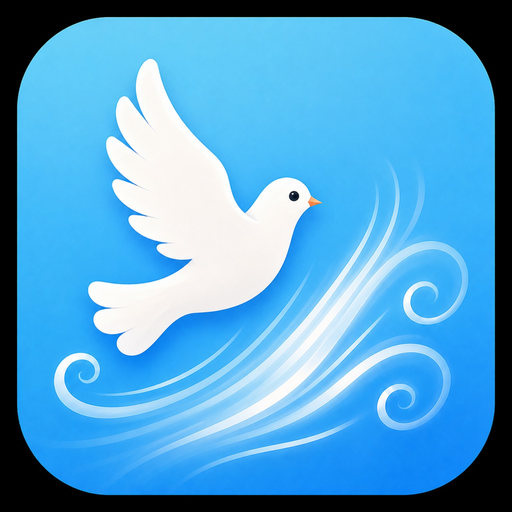
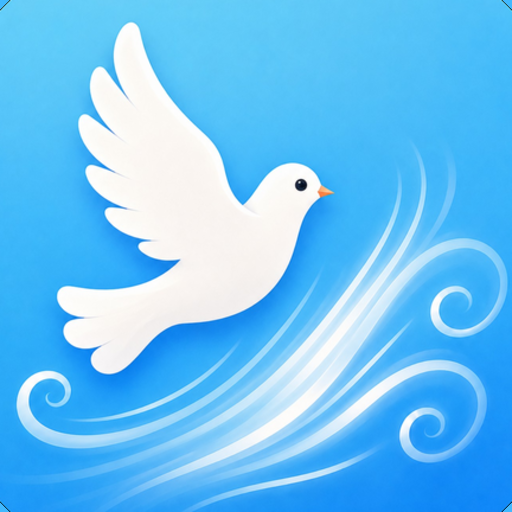
Add files via upload

diff --git a/index.html b/index.html
@@ -11,16 +11,15 @@
   <meta name="apple-mobile-web-app-title" content="Aufwind">
   <meta name="description" content="Aufwind – Good News aus aller Welt. Positive Nachrichten kompakt, transparent und nachvollziehbar.">
   <title>Aufwind – Good News aus aller Welt</title>
-  <link rel="manifest" href="manifest.json">
-  <link rel="icon" type="image/png" sizes="32x32" href="favicon-32.png">
-  <link rel="apple-touch-icon" sizes="180x180" href="apple-touch-icon.png">
-  <link rel="stylesheet" href="style.css?v=83">
+  <link rel="manifest" href="manifest.json?v=68">
+  <link rel="icon" type="image/png" sizes="32x32" href="aufwind-favicon-32-v68.png">
+  <link rel="apple-touch-icon" sizes="180x180" href="aufwind-apple-touch-icon-v68.png">
+  <link rel="stylesheet" href="style.css?v=85">
 </head>
 <body>
 <header class="appbar">
     <button class="brand-btn" id="homeBtn" aria-label="Zum neuesten Beitrag">
-      <img id="brandLogo" class="brand-logo" src="icon-192.png" alt="Aufwind App-Logo">
-      <span class="brand-copy"><span class="brand-name">Aufwind</span><span class="brand-tagline">Good News aus aller Welt</span></span>
+      <img id="brandLogo" class="brand-logo" src="aufwind-icon-192-v68.png" alt="Aufwind App-Logo">
     </button>
     <div class="appbar-actions">
       <button class="icon-btn menu-toggle-btn" id="menuBtn" aria-label="Menü öffnen" aria-expanded="false" aria-controls="mainMenu">☰</button>
@@ -39,7 +38,7 @@
         <span class="menu-chevron" aria-hidden="true">›</span>
       </button>
         <button id="accountBtn" type="button"><span>↪</span><span id="accountBtnLabel">Anmelden</span></button>
-        <div class="app-build-label" aria-label="App-Version">Aufwind · Build 63</div>
+        <div class="app-build-label" aria-label="App-Version">Aufwind · Build 68</div>
       </div>
       <button class="icon-btn slide-focus-btn" id="slideFocusBtn" type="button" aria-label="Slide-Text ausblenden" aria-pressed="false" title="Text ausblenden">
           <svg viewBox="0 0 24 24" aria-hidden="true">
@@ -941,6 +940,6 @@
 
   <script src="https://cdn.jsdelivr.net/npm/@supabase/supabase-js@2"></script>
   <script src="config.js"></script>
-  <script src="app.js?v=80"></script>
+  <script src="app.js?v=82"></script>
 </body>
 </html>

diff --git a/sw.js b/sw.js
@@ -1,20 +1,20 @@
-const GOOD_NEWS_SW_BUILD=65;
+const GOOD_NEWS_SW_BUILD=68;
 const CACHE=`good-news-build-${GOOD_NEWS_SW_BUILD}`;
 const STATIC=[
   "./",
   "./index.html",
-  "./style.css?v=83",
-  "./app.js?v=79",
+  "./style.css?v=85",
+  "./app.js?v=82",
   "./config.js",
-  "./manifest.json",
-  "./favicon-32.png",
-  "./apple-touch-icon.png",
-  "./icons/icon-192.png",
-  "./icons/icon-512.png",
-  "./icons/maskable-192.png",
-  "./icons/maskable-512.png",
+  "./manifest.json?v=68",
+  "./aufwind-favicon-32-v68.png",
+  "./aufwind-apple-touch-icon-v68.png",
+  "./icons/aufwind-icon-192-v68.png",
+  "./icons/aufwind-icon-512-v68.png",
+  "./icons/aufwind-maskable-192-v68.png",
+  "./icons/aufwind-maskable-512-v68.png",
   "./date-slide-background-v2.png",
-  "./icon-192.png",
+  "./aufwind-icon-192-v68.png",
   "./notification-badge.png"
 ];
 
@@ -113,7 +113,7 @@ self.addEventListener("push",event=>{
   const title=data.title||"Aufwind";
   const options={
     body:data.body||"Neue Good News aus aller Welt sind da.",
-    icon:data.icon||"./icon-192.png",
+    icon:data.icon||"./aufwind-icon-192-v68.png",
     badge:data.badge||"./notification-badge.png",
     data:{url:data.url||"./"},
     tag:data.tag||"good-news-daily"

diff --git a/app.js b/app.js
@@ -2387,7 +2387,7 @@ queueMicrotask(()=>{
 // selbst alle offenen Good-News-Fenster auf den neuen Build führen. So hängt die
 // installierte PWA nicht mehr an einer alten Cache-/Worker-Version fest.
 // Build 35 – adaptive Überschriften (max. 4 Zeilen) und stärkerer Lesbarkeitsverlauf.
-const GOOD_NEWS_BUILD=63;
+const GOOD_NEWS_BUILD=68;
 let goodNewsSwRegistration=null;
 let goodNewsReloading=false;
 
@@ -2728,13 +2728,13 @@ function applyAppSettings(s){
 
   const logo=$("brandLogo");
   if(logo){
-    // Das Good-News-Appsymbol ist immer der Fallback. Ein in der Redaktion
+    // Das Aufwind-Symbol ist der Fallback. Ein später bewusst in der Redaktion
     // hinterlegtes Logo darf es weiterhin überschreiben.
-    logo.src=s.logo_url || "icon-192.png";
+    logo.src=s.logo_url || "aufwind-icon-192-v68.png";
     logo.classList.add("visible");
     logo.onerror=()=>{
-      if(!logo.src.endsWith("/icon-192.png") && !logo.src.endsWith("icon-192.png")){
-        logo.src="icon-192.png";
+      if(!logo.src.endsWith("/aufwind-icon-192-v68.png") && !logo.src.endsWith("aufwind-icon-192-v68.png")){
+        logo.src="aufwind-icon-192-v68.png";
       }
     };
   }

diff --git a/style.css b/style.css
@@ -1625,3 +1625,9 @@ html.user-theme-light .user-password-card{background:#f6f6f4;border-color:#d8d8d
 @media(max-width:360px){
   .brand-tagline{display:none}
 }
+
+
+/* Build 66 – Kopfzeile: nur das Aufwind-Symbol, ohne Schriftzug */
+.appbar .brand-copy{display:none!important}
+.appbar .brand-btn{gap:0}
+.appbar .brand-logo{width:38px;height:38px;border-radius:11px}
